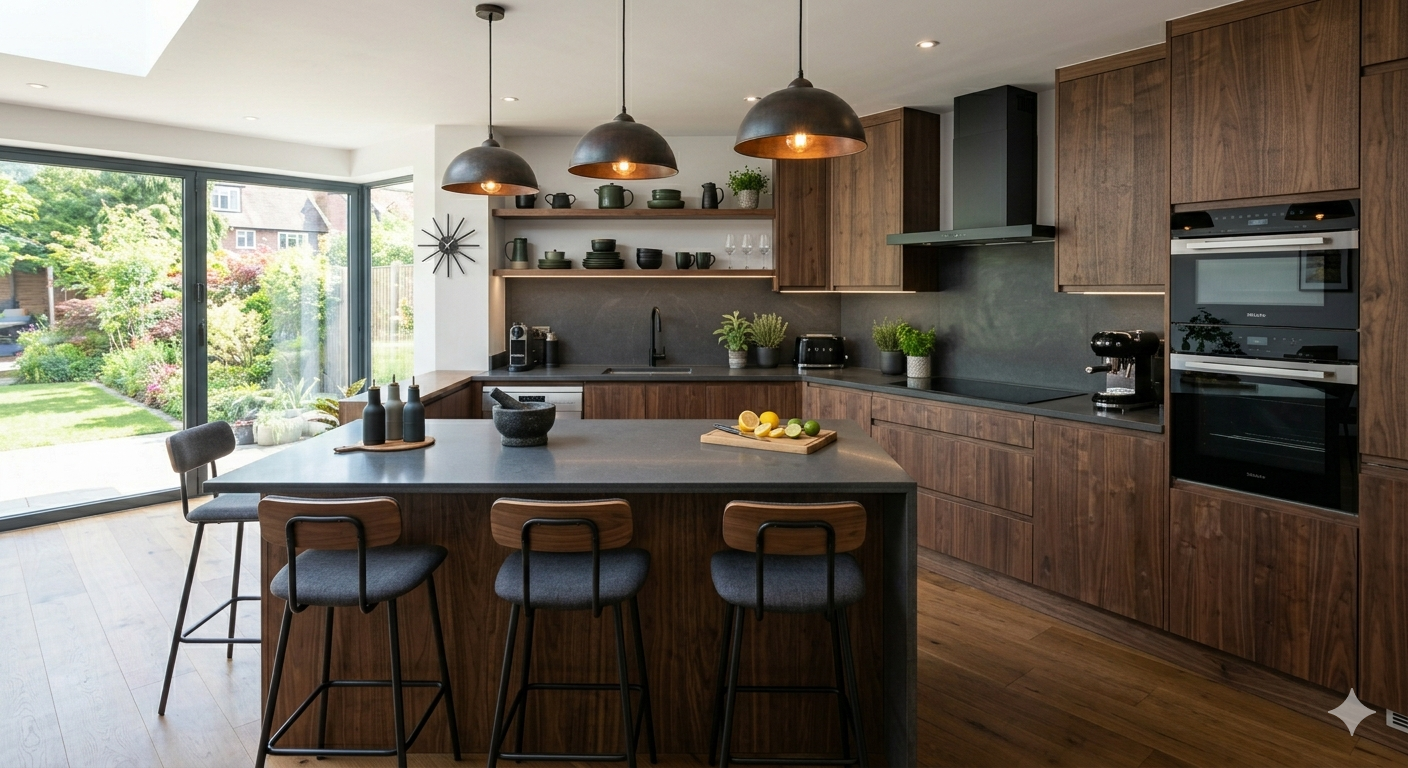
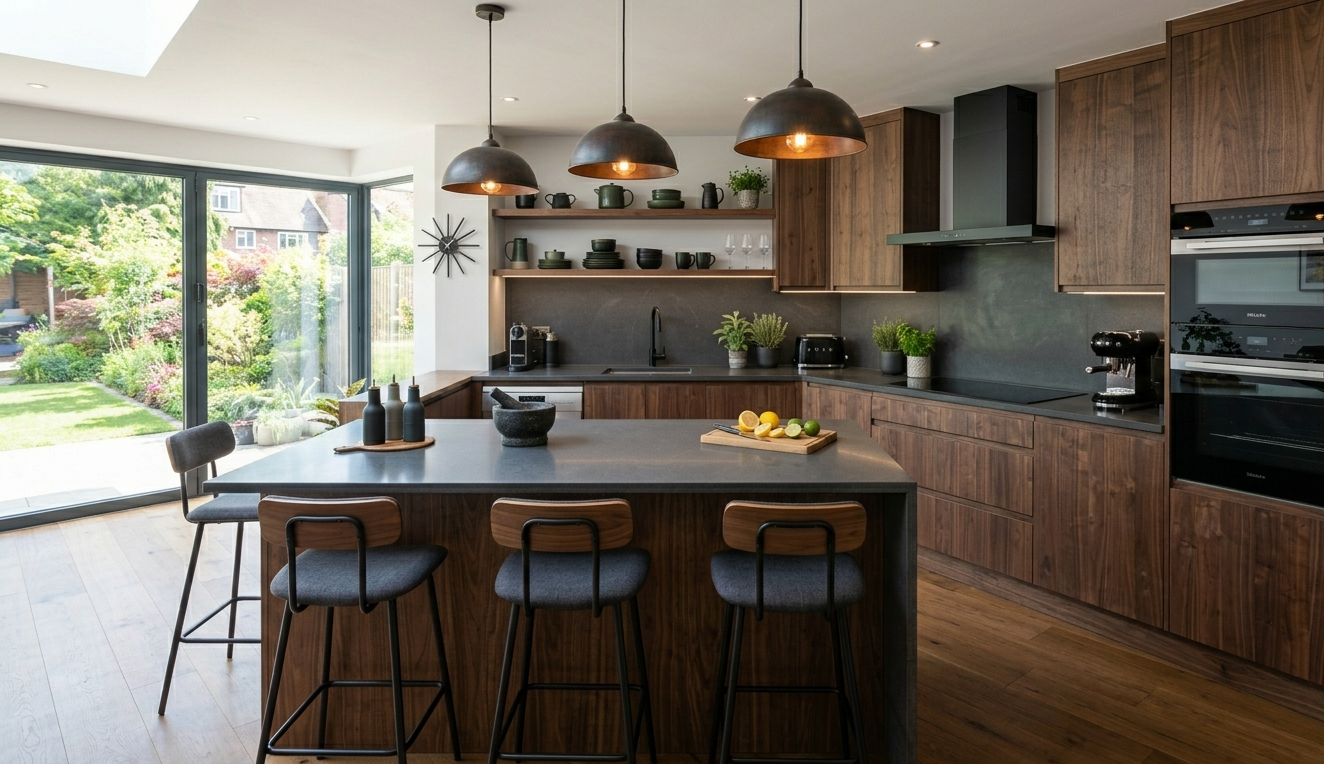
full commited

diff --git a/client/src/pages/Home.tsx b/client/src/pages/Home.tsx
@@ -101,11 +101,11 @@ Message: ${formData.message || "Not specified"}`;
     <div className="min-h-screen bg-[#050505] text-white overflow-x-hidden" style={{ fontFamily: "'General Sans', sans-serif" }}>
 
       {/* ── NAVIGATION ── */}
-      <nav className={`fixed top-0 left-0 w-full z-50 transition-all duration-500 px-6 md:px-10 mix-blend-difference ${scrolled ? "py-4 bg-[#050505]/80 backdrop-blur-md" : "py-6"}`}>
+      <nav className={`fixed top-0 left-0 w-full z-50 transition-all duration-500 px-6 md:px-10 ${scrolled ? "py-4 bg-[#050505]/90 backdrop-blur-md shadow-lg" : "py-6 bg-gradient-to-b from-black/60 to-transparent"}`}>
         <div className="flex items-center justify-between max-w-[1440px] mx-auto">
           <div className="flex items-center gap-3">
-            <div className="w-2.5 h-2.5 bg-rose-500 rounded-full animate-pulse" />
-            <span className="text-lg font-black tracking-tighter uppercase text-white">Gautam Modular</span>
+            <img src="/images/logo.jpeg" alt="Gautam Modular Kitchen Logo" className="w-10 h-10 rounded-full object-cover border border-white/20" />
+            <span className="text-lg font-black tracking-tighter uppercase text-white">Gautam Modular Kitchen</span>
           </div>
           <div className="hidden md:flex items-center gap-10">
             {["#about", "#services", "#gallery", "#process", "#contact"].map((href, i) => (
@@ -343,7 +343,7 @@ Message: ${formData.message || "Not specified"}`;
       </section>
 
       {/* ── CONTACT FORM ── */}
-      <section className="py-24 md:py-40 px-6 md:px-12 bg-[#050505] border-t border-white/5">
+      <section id="consultation" className="py-24 md:py-40 px-6 md:px-12 bg-[#050505] border-t border-white/5">
         <div className="max-w-[90rem] mx-auto">
           <div className="mb-16">
             <h2 className="cinema-heading text-white mb-4">Get Free<br />Consultation</h2>
@@ -439,9 +439,9 @@ Message: ${formData.message || "Not specified"}`;
               <span style={{ background: "linear-gradient(to right,#e4b4b4,#cbd5e1)", WebkitBackgroundClip: "text", WebkitTextFillColor: "transparent" }}>2026</span>
             </div>
             <div className="flex flex-col gap-4 md:text-right text-sm">
-              <div className="flex items-center md:justify-end gap-3"><Phone size={14} className="text-rose-300" /><span className="text-slate-400">+91 9035725303</span></div>
-              <div className="flex items-center md:justify-end gap-3"><Mail size={14} className="text-rose-300" /><span className="text-slate-400">gautammodularkitchen@gmail.com</span></div>
-              <div className="flex items-center md:justify-end gap-3"><MapPin size={14} className="text-rose-300" /><span className="text-slate-400">Bangalore, India</span></div>
+              <div className="flex items-center md:justify-end gap-3"><Phone size={14} className="text-rose-300" /><span className="text-slate-400"><a href="tel:+919035725303" className="text-slate-400 hover:text-white transition-colors">+91 9035725303</a> / <a href="tel:+918310240952" className="text-slate-400 hover:text-white transition-colors">8310240952</a></span></div>
+              <div className="flex items-center md:justify-end gap-3"><Mail size={14} className="text-rose-300" /><a href="https://mail.google.com/mail/?view=cm&to=gautammodularkitchen@gmail.com" target="_blank" rel="noopener noreferrer" className="text-slate-400 hover:text-white transition-colors">gautammodularkitchen@gmail.com</a></div>
+              <div className="flex items-center md:justify-end gap-3"><MapPin size={14} className="text-rose-300" /><span className="text-slate-400 md:text-right">#322, SRY 2, Begur Koppa Road,<br />Mylasyndra, Waddarparlya,<br />Bangalore - 560 068</span></div>
               <div className="flex items-center md:justify-end gap-3"><Clock size={14} className="text-rose-300" /><span className="text-slate-400">Mon–Sat: 10 AM – 7 PM</span></div>
               <div className="grid grid-cols-2 gap-2 mt-4">
                 {["Services", "Gallery", "About Us", "Contact"].map((l, i) => (

diff --git a/client/src/components/PremiumHero.tsx b/client/src/components/PremiumHero.tsx
@@ -1,6 +1,11 @@
 import { useEffect, useRef, useState } from "react";
 import { ArrowRight } from "lucide-react";
 
+function smoothScrollTo(id: string) {
+  const el = document.getElementById(id);
+  if (el) el.scrollIntoView({ behavior: "smooth", block: "start" });
+}
+
 export default function PremiumHero() {
   const [isLoaded, setIsLoaded] = useState(false);
   const scrollRef = useRef<HTMLDivElement>(null);
@@ -103,19 +108,19 @@ export default function PremiumHero() {
           Crafted For<br />Living
         </h2>
         <div className="mt-6 flex flex-col sm:flex-row items-center justify-center gap-4">
-          <a
-            href="#contact"
+          <button
+            onClick={() => smoothScrollTo("consultation")}
             className="group relative px-8 py-4 bg-white text-black text-[10px] font-black uppercase tracking-[0.2em] overflow-hidden transition-all duration-300 hover:scale-105 inline-flex items-center gap-3"
           >
             <span>Get Free Consultation</span>
             <ArrowRight className="w-4 h-4 transition-transform duration-300 group-hover:translate-x-1" />
-          </a>
-          <a
-            href="#gallery"
+          </button>
+          <button
+            onClick={() => smoothScrollTo("gallery")}
             className="px-8 py-4 border border-white/20 text-white text-[10px] font-black uppercase tracking-[0.2em] hover:border-white transition-all duration-300 inline-block"
           >
             View Projects
-          </a>
+          </button>
         </div>
       </div>
 

diff --git a/client/src/index.css b/client/src/index.css
@@ -135,6 +135,9 @@
 }
 
 @layer base {
+  html {
+    scroll-behavior: smooth;
+  }
   * {
     @apply border-border outline-ring/50;
   }
